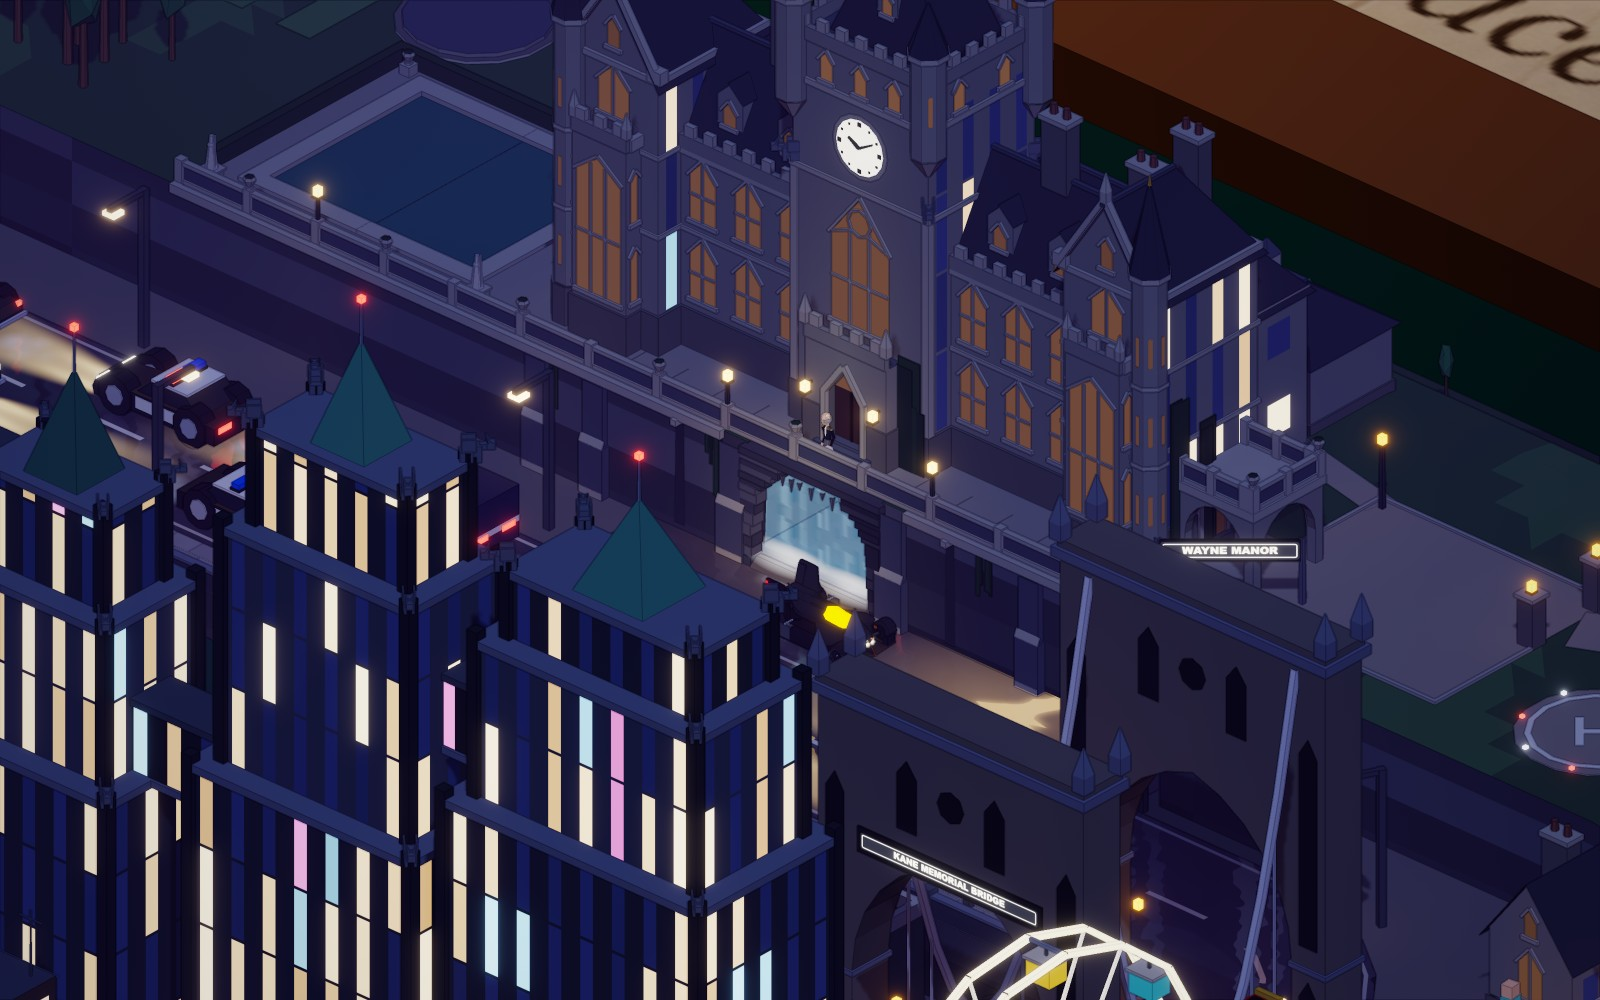
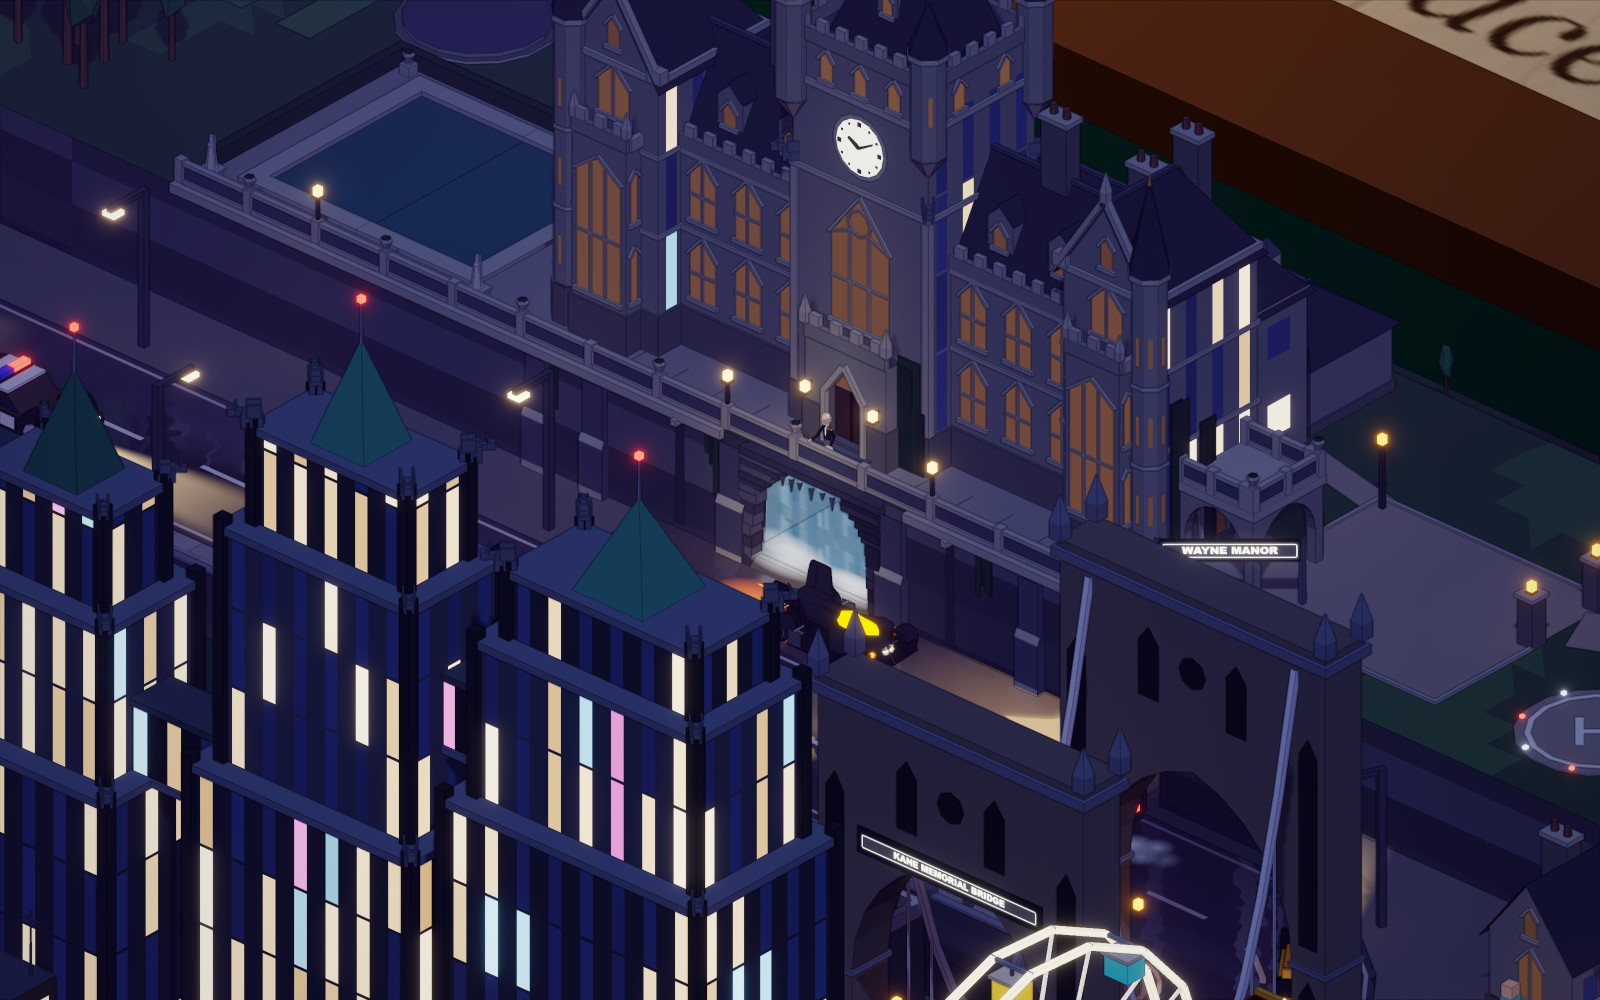
Gotham City's two pictures of the Batmobile, taken again at its new size
The car is a tenth bigger since the last merge, so the README's pictures of its way out of the Batcave and of the chase on the docks are taken again, and the tile's notes say when the bigger car was merged.

diff --git a/app/src/tiles/gotham/NOTES.md b/app/src/tiles/gotham/NOTES.md
@@ -4,7 +4,7 @@ This file records what a later reader cannot see in the code.
 
 **Where the tile stands.** Built on the branch `claude/gotham-tile`, as the tenth tile. The plan, the ground, the roads, the elevated railway, the ordinary buildings and what stands over the roads (`blocks.ts`), the life of the paving, the stage and the show's director are the tile session's. The districts, the figures, the machines, the animals, the air, the traffic's kinds and the stories are builders' files, each from the brief `tile-gotham-builders-brief.md` and a task sheet of its own in the shared notes folder, judged and mended by the tile session.
 
-**The merge.** Merged into `main` on 21 November 2026, at the collector's word, as it stood at `eeae366`. The main session gave it its place in `ORDER` in `app/src/tiles/index.ts`, the tenth; its postcard for the picker, which is taken at night with the Signal lit, since that is the picture of the tile; and its section and pictures in the README. With ten tiles built, every load leaves one in the box, and Gotham City is as likely to be that one as any other.
+**The merge.** Merged into `main` on 21 November 2026, at the collector's word, as it stood at `eeae366`. The bigger Batmobile followed the same day, as the branch stood at `7ada09b`, and the README's two pictures with the car in them were taken again. The main session gave it its place in `ORDER` in `app/src/tiles/index.ts`, the tenth; its postcard for the picker, which is taken at night with the Signal lit, since that is the picture of the tile; and its section and pictures in the README. With ten tiles built, every load leaves one in the box, and Gotham City is as likely to be that one as any other.
 
 ## The collector's decisions
 
